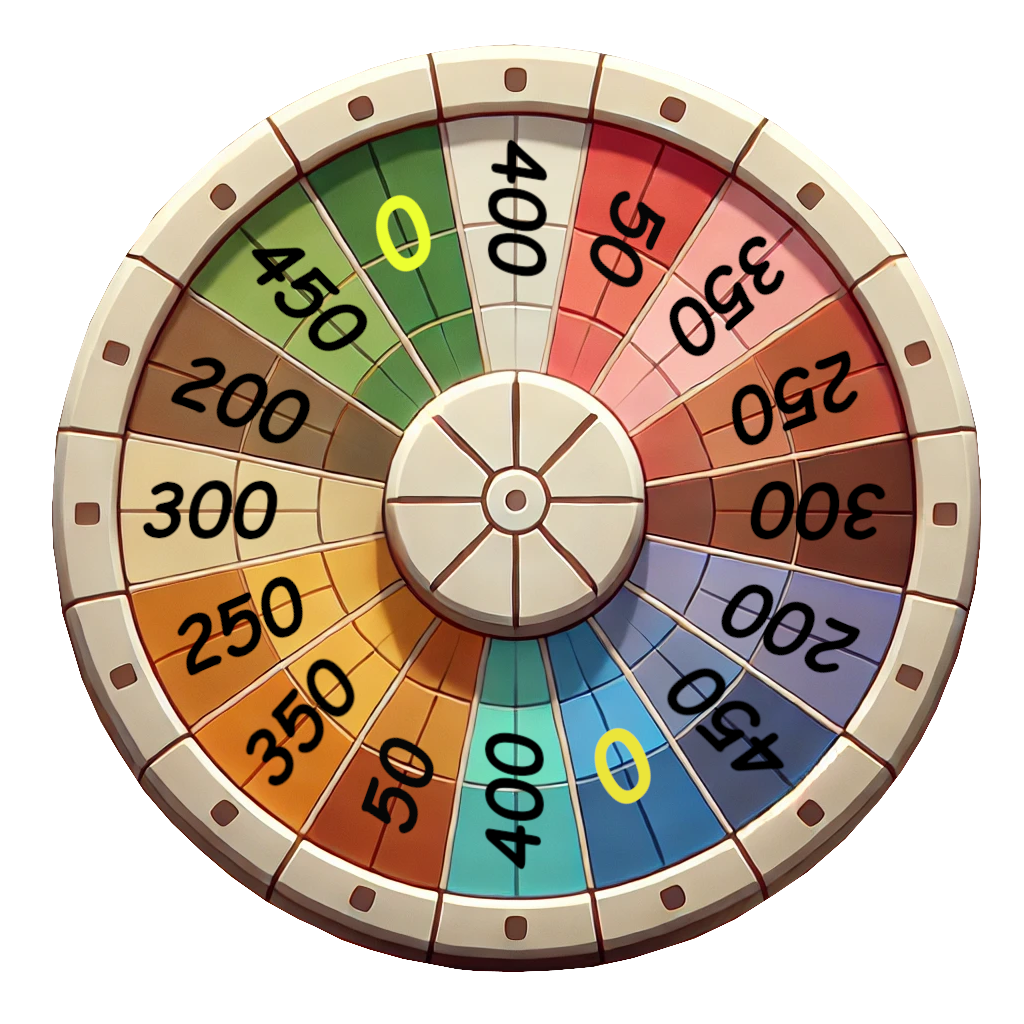
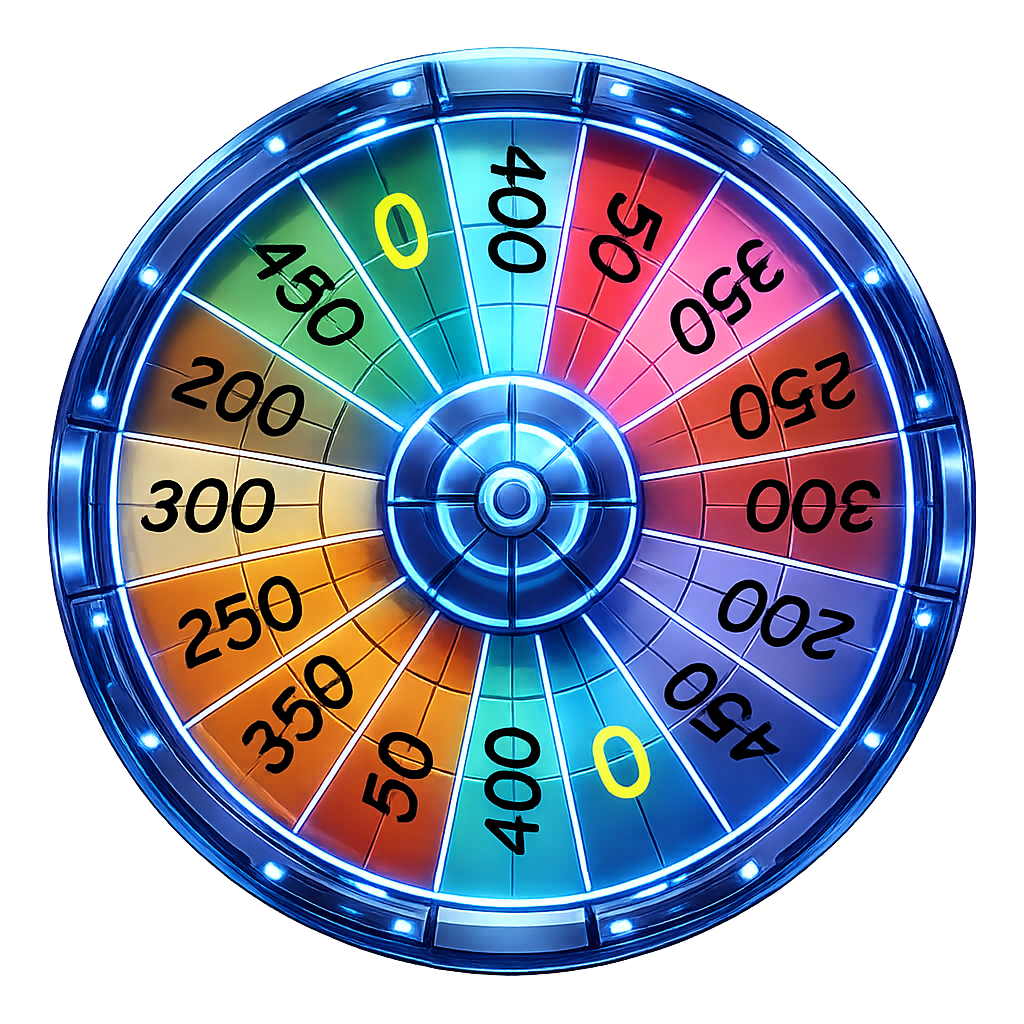
update game display

diff --git a/src/display.py b/src/display.py
@@ -41,8 +41,10 @@ class Display:
             font_bytes = f.read()
         with open(title_font_path, "rb") as f:
             title_font_bytes = f.read()
+
         def _font(data, size):
             return pygame.font.Font(io.BytesIO(data), size)
+
         if self.screen_height >= 900:
             self.font_title = _font(title_font_bytes, 78)
             self.font_title_small = _font(title_font_bytes, 60)
@@ -101,12 +103,12 @@ class Display:
     def load_ressources(self):
         try:
             self.resources["game_background"] = self.load_background(
-                "images", "game3.jpg"
+                "images", "game_background.png"
             )
             self.resources["menu_background"] = self.load_background(
                 "images", "intro.jpg"
             )
-            self.resources["win_background"] = self.load_background("images", "win.jpg")
+            self.resources["win_background"] = self.load_background("images", "win.png")
             self.resources["winner_banner"] = self.load_background(
                 "images", "winner.png"
             )
@@ -316,7 +318,9 @@ class Display:
         orig = _loaded[0] if _loaded else self.prepare_surface(pygame.image.load(path))
         result = self.prepare_surface(pygame.transform.smoothscale(orig, target))
         try:
-            self._save_surface_cache(result, self._surface_cache_path(path, *target, ext), has_alpha)
+            self._save_surface_cache(
+                result, self._surface_cache_path(path, *target, ext), has_alpha
+            )
         except Exception as e:
             logging.warning(f"Image cache save failed ({path}): {e}")
         return result
